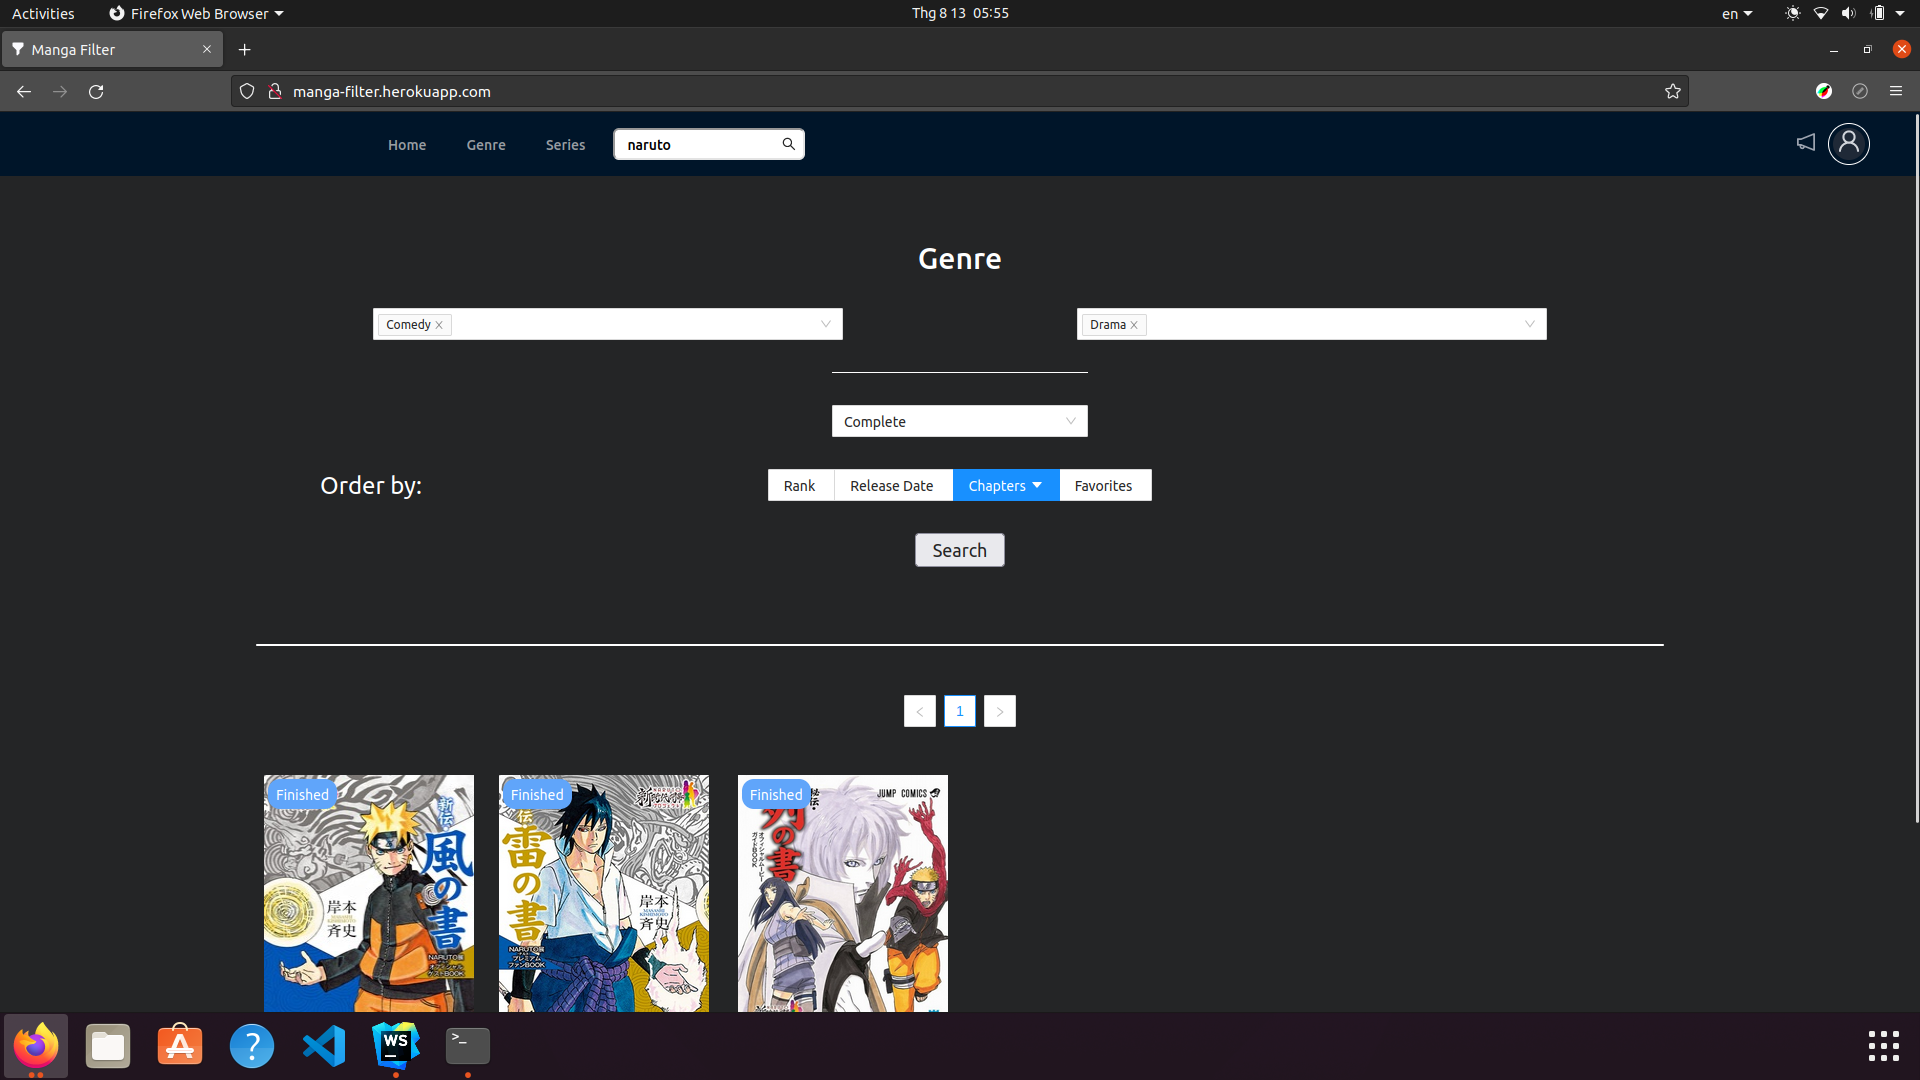
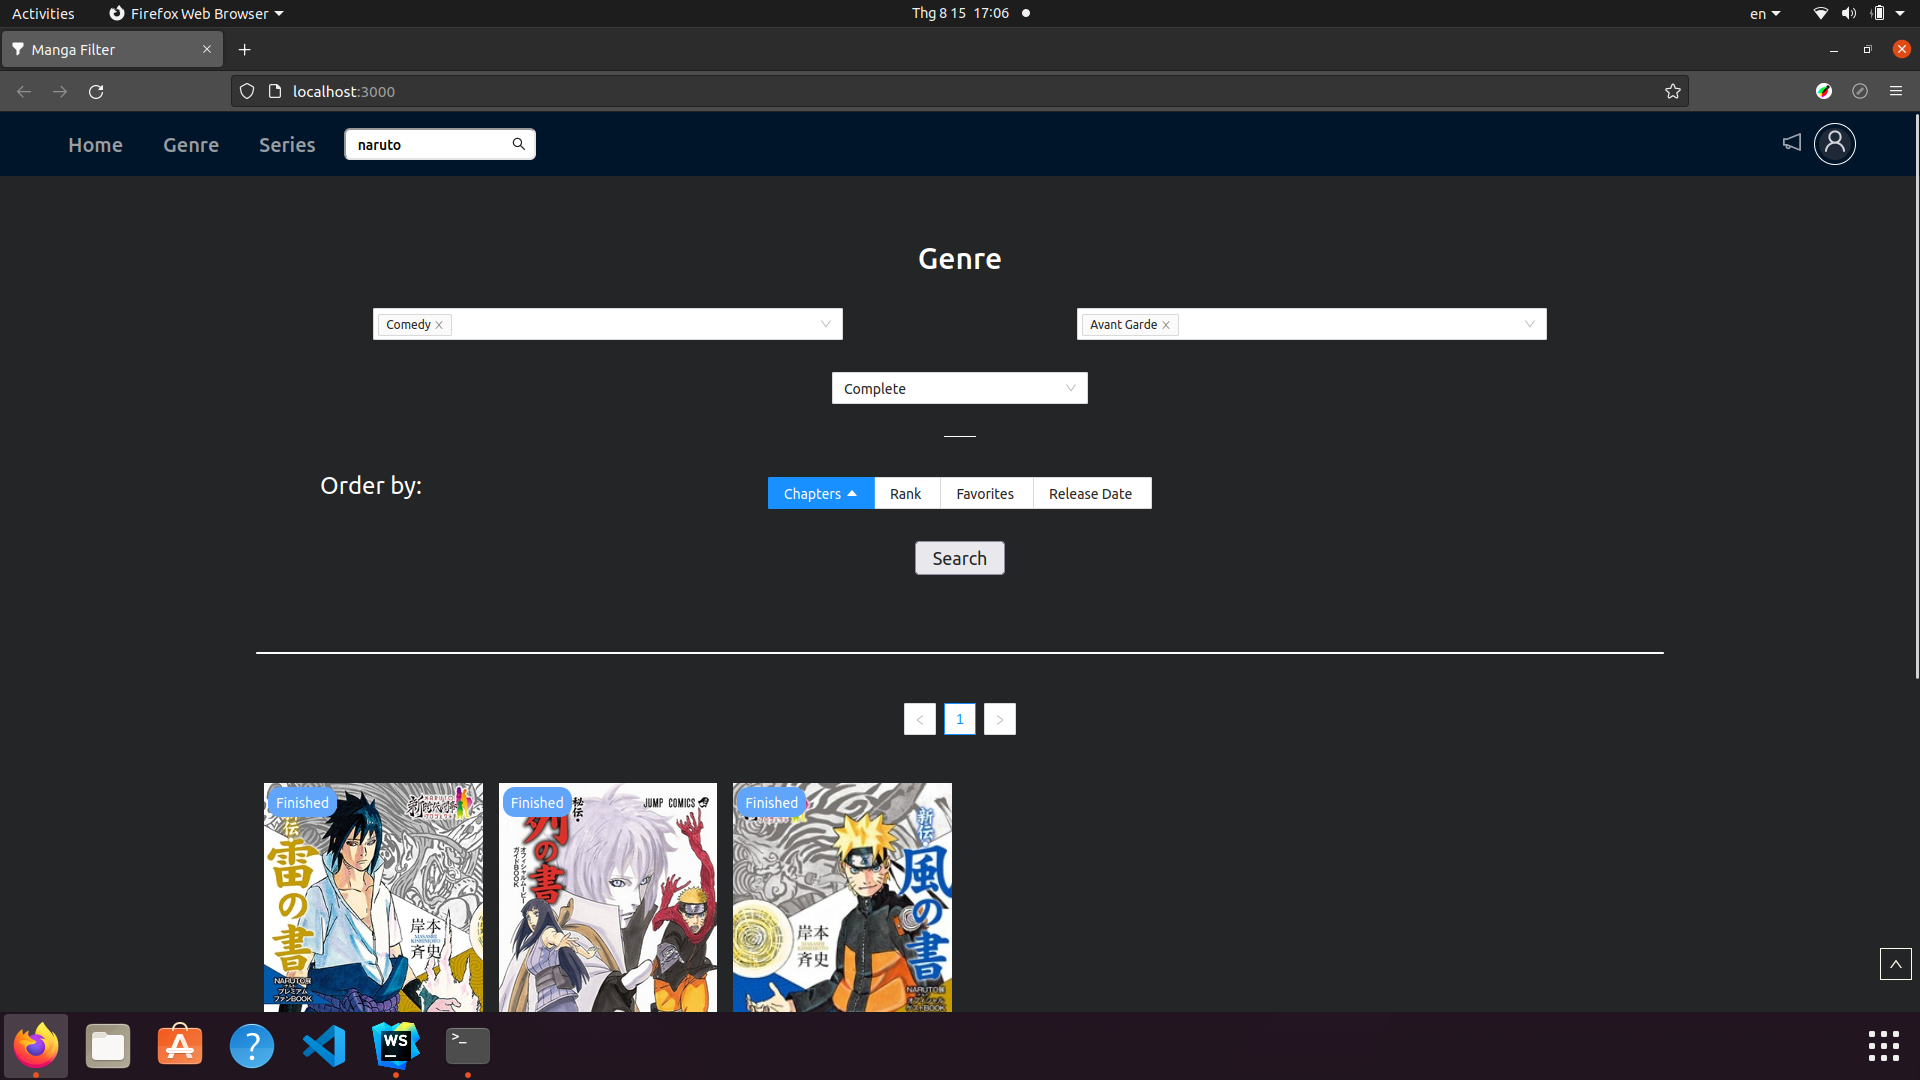
Update: README.md and navbar

diff --git a/src/components/navbar/index.jsx b/src/components/navbar/index.jsx
@@ -26,8 +26,8 @@ const Navbar = () => {
 
   })
   return (
-    <nav className="relative grow">
-      <div className="px-2 mx-auto max-w-7xl sm:px-6 lg:px-8">
+    <nav className="relative">
+      <div className="px-2 max-w-7xl sm:px-6 lg:px-8">
         <div className="relative flex items-center justify-between h-auto">
           <div
             className={`${isSearch ? 'flex-col items-start' : 'items-center'} flex justify-start flex-1 sm:items-stretch`}>
@@ -49,15 +49,15 @@ const Navbar = () => {
               <div
                 className={`${showDropdown ? 'flex flex-col' : 'hidden'} items-start mr-4 sm:flex justify-start sm:items-center sm:space-x-4 phone:fixed phone:top-16 phone:left-0 phone:bg-[#001529] phone:screen`}>
                 <a href="/"
-                   className="phone:w-screen phone:text-lg px-3 py-2 text-sm font-medium text-white rounded-md disable">
+                   className="phone:w-screen phone:text-lg px-3 py-2 text-sm font-medium text-xl text-white rounded-md disable">
                   Home
                 </a>
                 <a href="/"
-                   className="phone:w-screen phone:text-lg px-3 py-2 text-sm font-medium text-white rounded-md disable">
+                   className="phone:w-screen phone:text-lg px-3 py-2 text-sm font-medium text-xl text-white rounded-md disable">
                   Genre
                 </a>
                 <a href="/"
-                   className="phone:w-screen phone:text-lg px-3 py-2 text-sm font-medium text-white rounded-md disable">
+                   className="phone:w-screen phone:text-lg px-3 py-2 text-sm font-medium text-xl text-white rounded-md disable">
                   Series
                 </a>
               </div>
@@ -78,7 +78,7 @@ const Navbar = () => {
           </div>
         </div>
       </div>
-      <div className="absolute right-2 top-0 h-16 flex items-center justify-center">
+      <div className="absolute right-16 phone:right-2 top-0 h-16 flex items-center justify-center">
         <div className="flex items-center justify-center text-gray-400 hidden lg:flex hover:text-white">
           <NotificationOutlined className="text-xl"/>
         </div>

diff --git a/README.md b/README.md
@@ -13,9 +13,11 @@ In Vietnam, there are websites posted without copyright, so I want to create a w
 - API: Jikan
 
 ## Feature
+- Responsive: Able to use on mobile phone
+  ![img.png](src/assets/git/images/responsive.png)
 
 - Search by name: You can find a specific manga by its name.
-  ![img.png](src/assets/git/images/feature_search_name.png)
+  ![img.png](src/assets/git/images/feature_search.png)
 
 
 - Advanced Search: You can search in a more advanced way, ex: include genre(s), exclude genre(s), manga status; rank, favorites, release date, chapter quantity in ascending or descending order.
